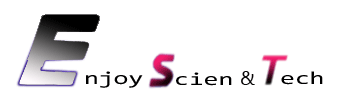
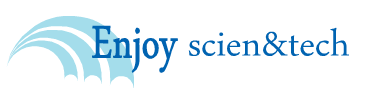
更新网络icon

diff --git a/src/blog/templates/blog/base.html b/src/blog/templates/blog/base.html
@@ -58,7 +58,8 @@
 		<body >
 		<div class='mycontainer' id='head-out'>
 			<div id='head'>
-				<img src="/static/image/enjoyst.png" alt="" style='float:left;margin-top:-30px;width:150px;'>
+				<img src="/static/image/enjoyst.svg" type="image/svg+xml" alt="" style='float:left;margin-top:-30px;width:200px;'>
+				
 				<ul class="menu" id='head-menu'>
 					{% for menu in menus %}
 					<li >

diff --git a/src/settings/local.py b/src/settings/local.py
@@ -1,8 +1,9 @@
 from base import *
 
-#BASE_DIR =os.path.dirname(BASE_DIR)
-STATIC_ROOT= os.path.join(BASE_DIR,'static')
-STATICFILES_DIRS = (os.path.join(BASE_DIR,'pub_static'),)
+
+#STATIC_ROOT= os.path.join(BASE_DIR,'static')
+STATICFILES_DIRS = (os.path.join(BASE_DIR,'static'),)
+#STATICFILES_DIRS = (os.path.join(BASE_DIR,'pub_static'),)
 
 ROUT_MEDIA=True
 
